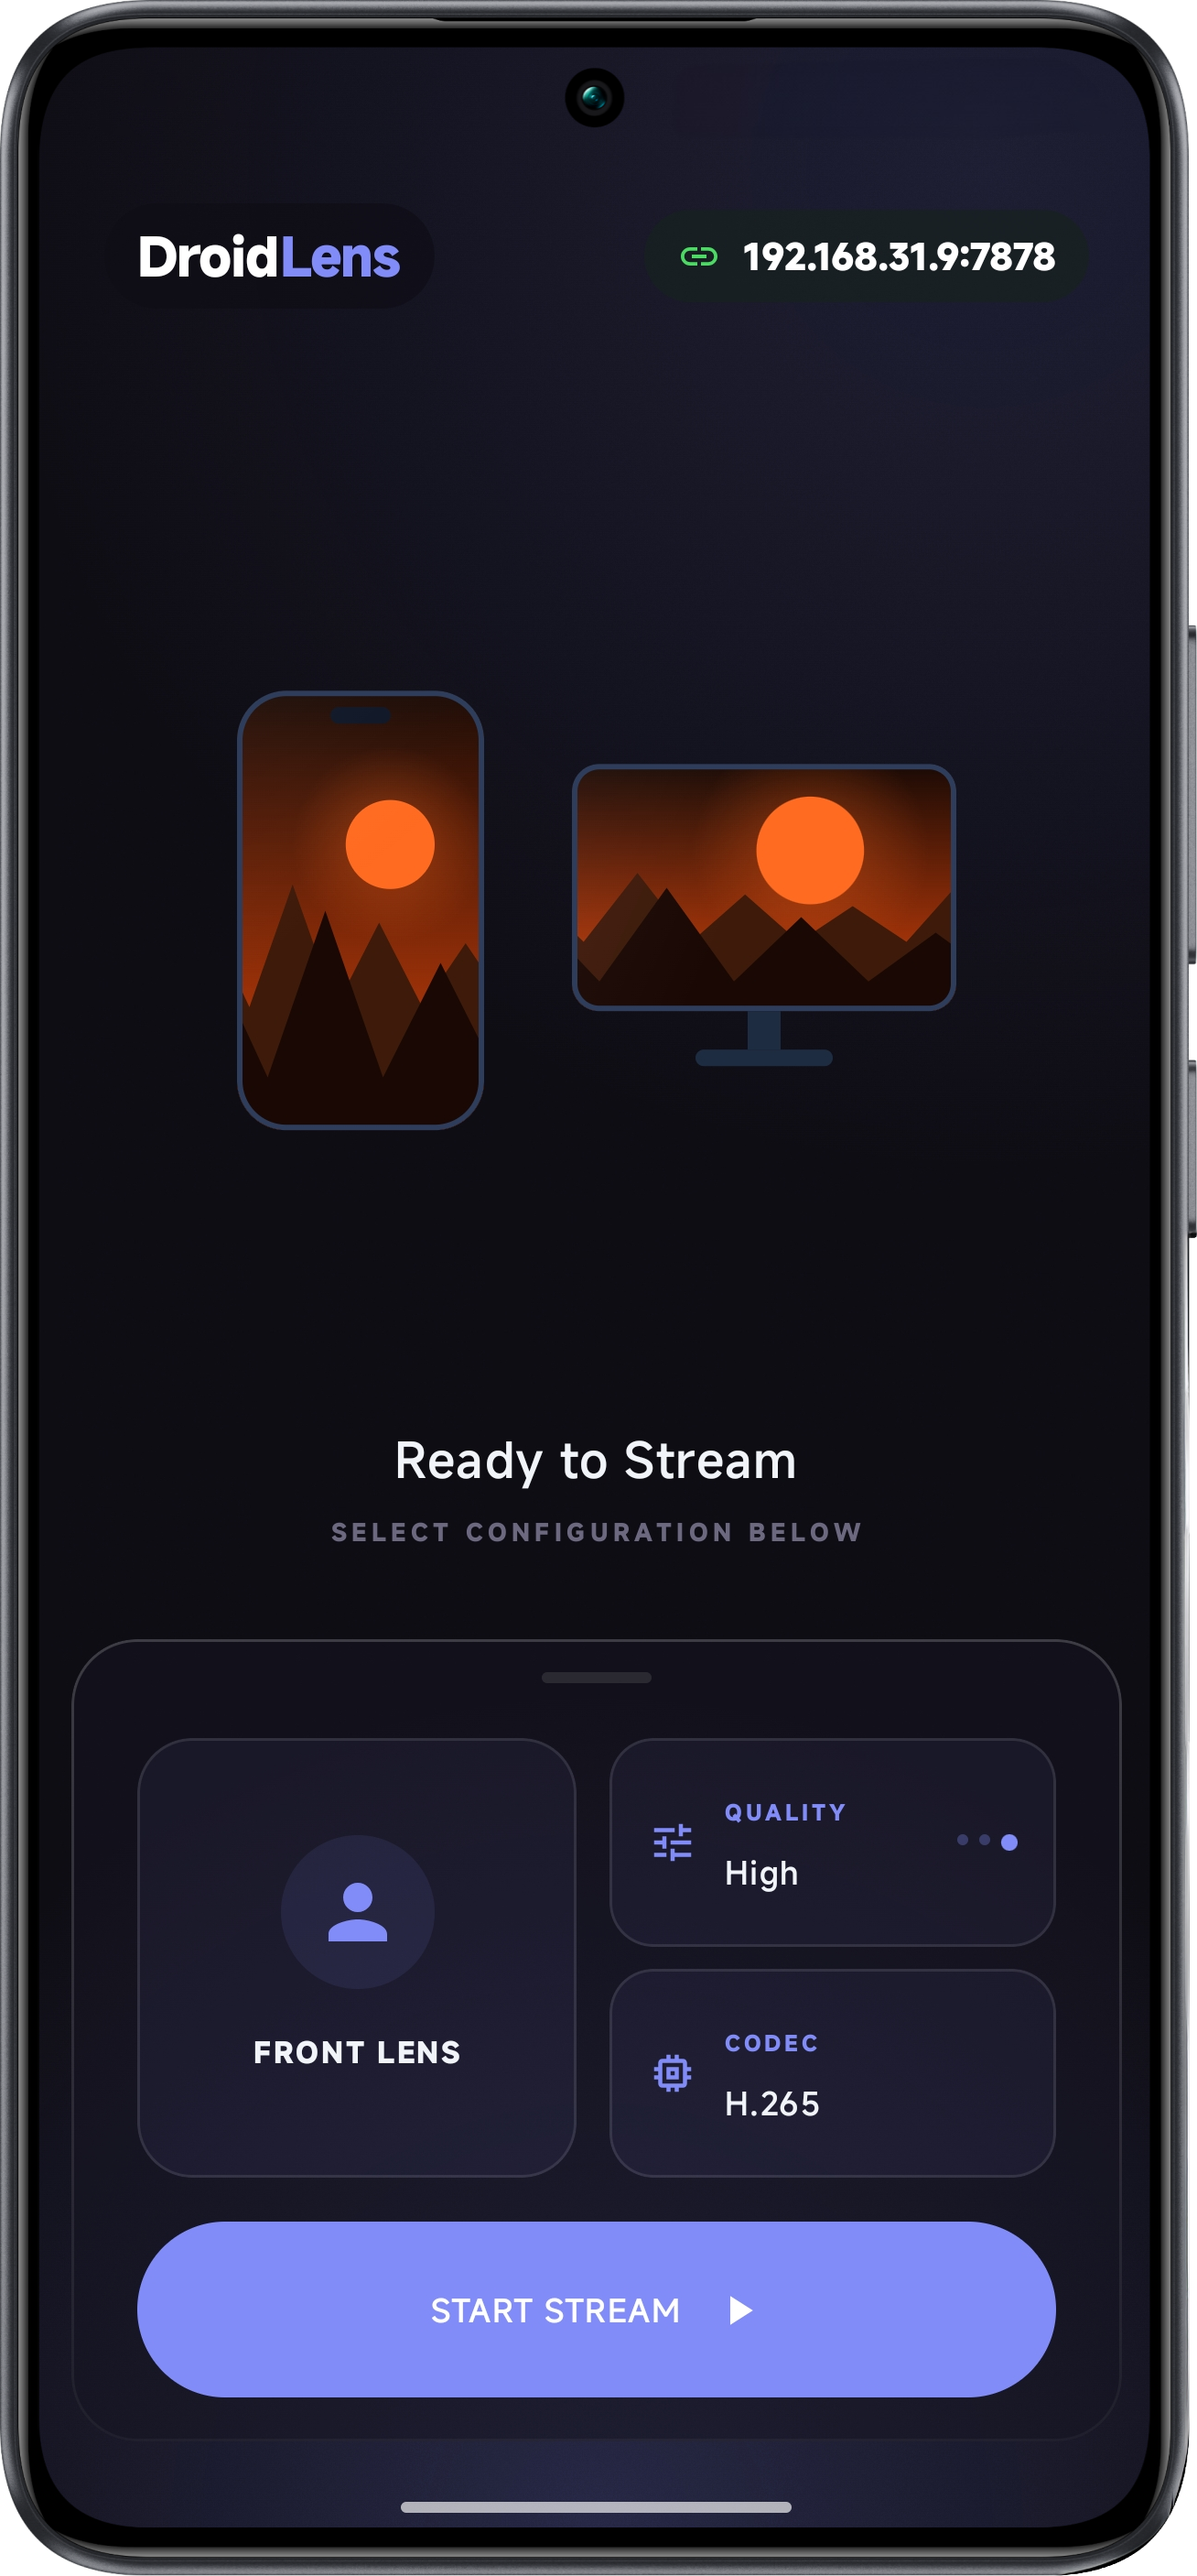
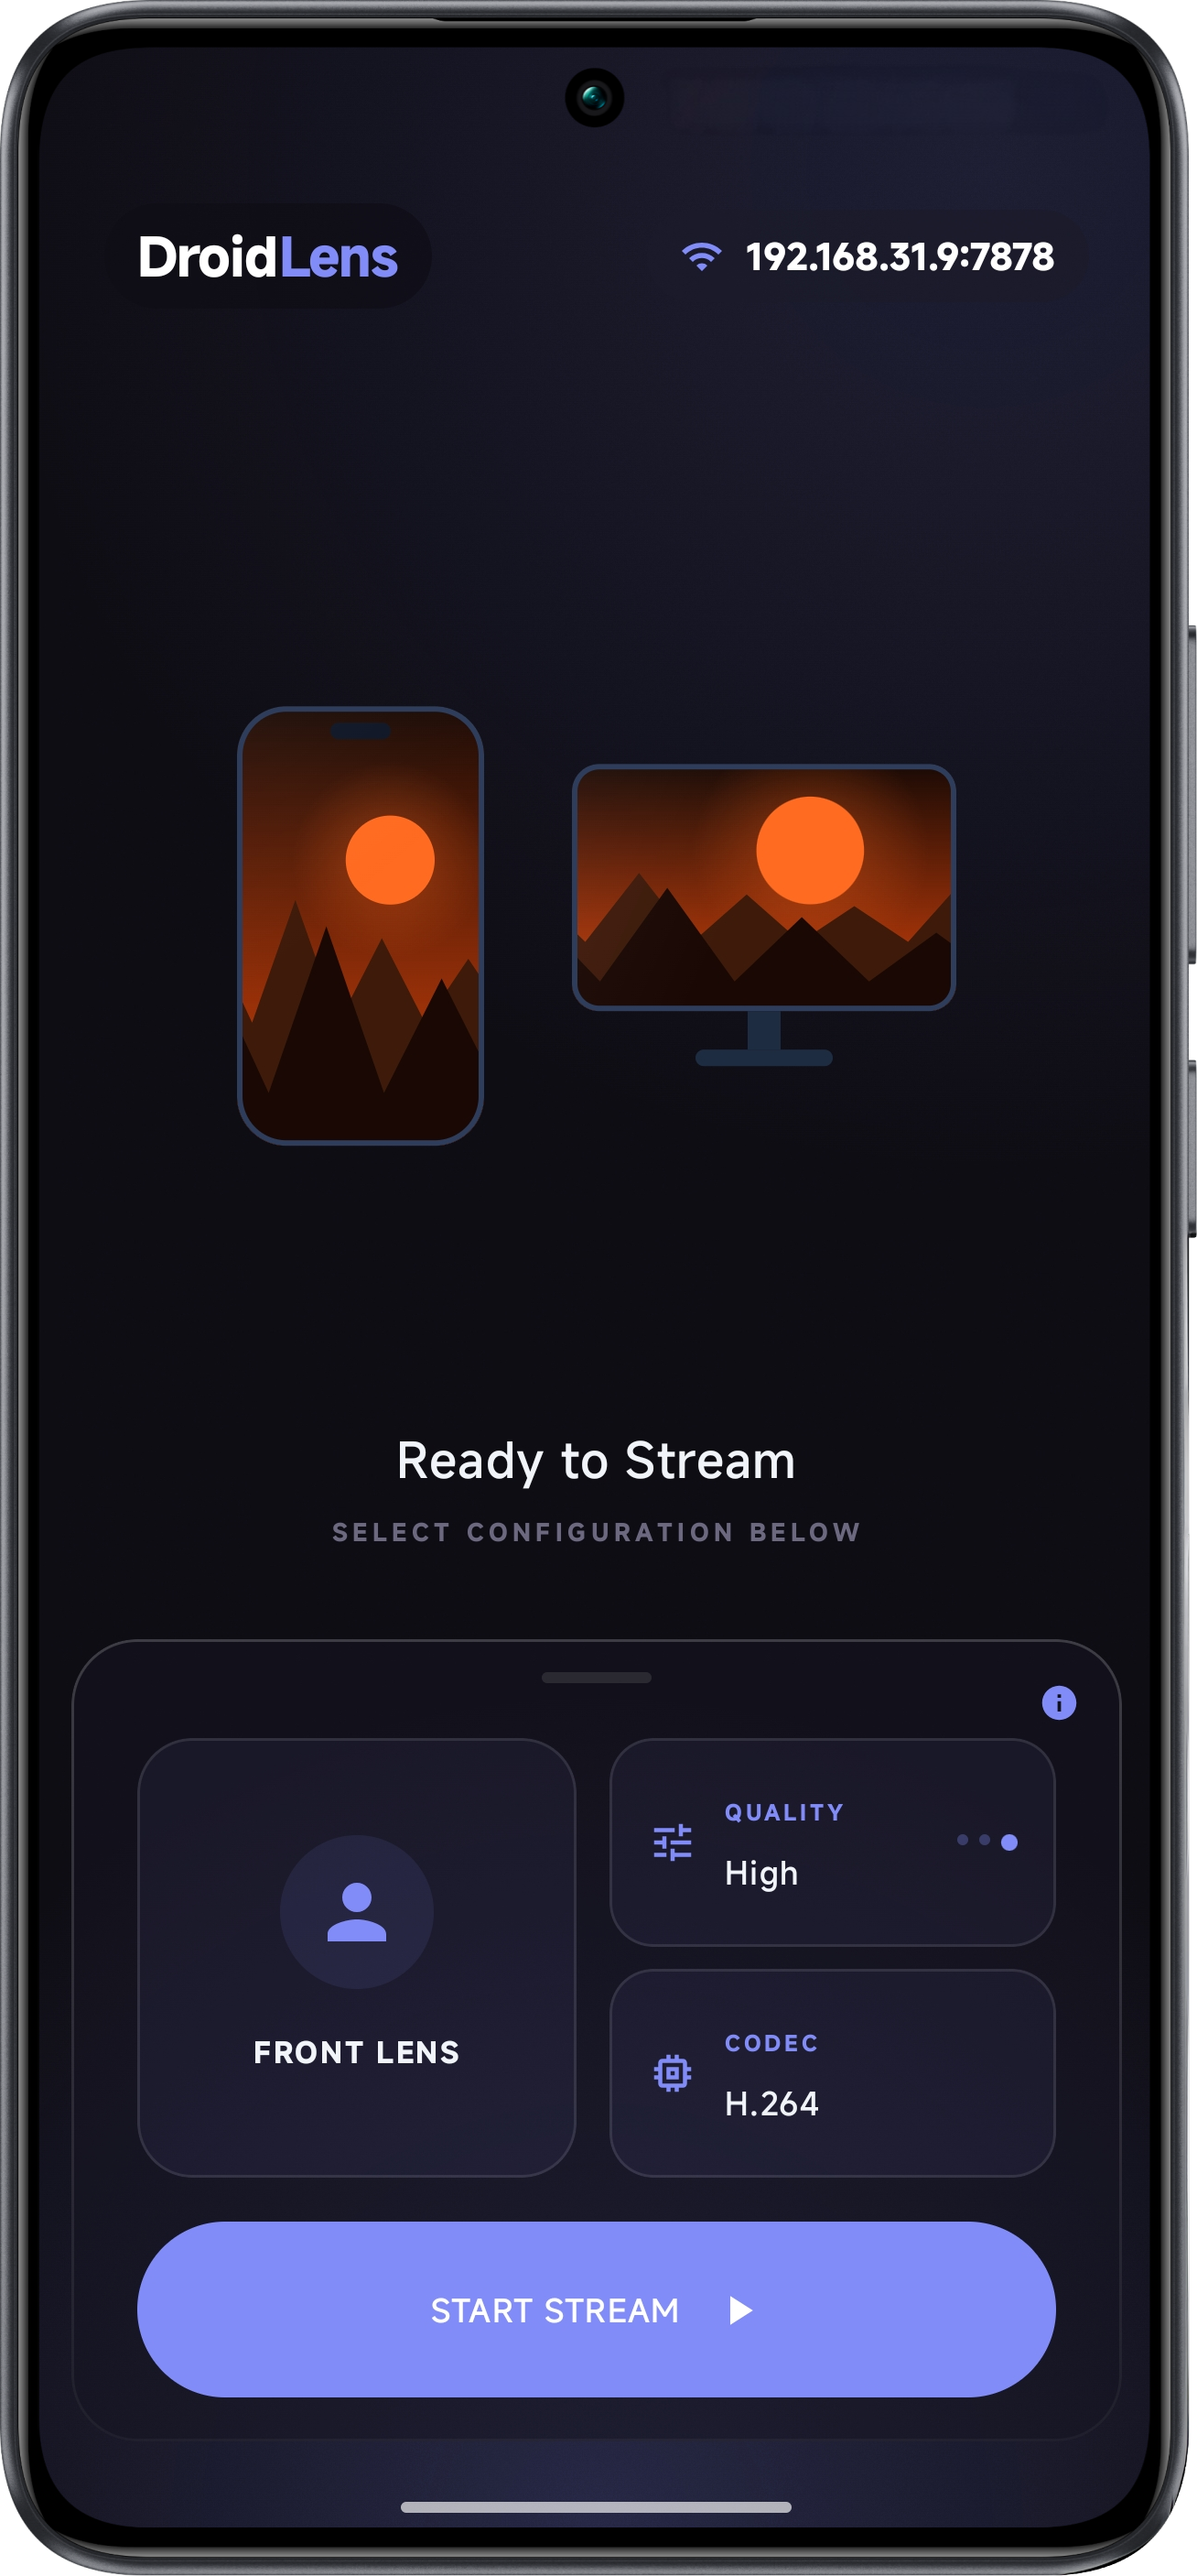
docs(android): refresh idle shots, add light theme variant

diff --git a/android/README.md b/android/README.md
@@ -12,13 +12,20 @@ The mobile camera streamer for DroidLens.
 
 <table>
   <tr>
-    <td align="center" width="35%">
-      <img src="../assets/screenshots/android-idle.png" alt="Ready to stream screen with lens, quality and codec selection" width="270" />
+    <td align="center" width="50%">
+      <img src="../assets/screenshots/android-idle.png" alt="Ready to stream screen in dark theme" width="270" />
       <br />
-      <em>Ready to stream — front lens, quality and codec (H.265) selection</em>
+      <em>Ready to stream — dark theme, front lens, quality and codec (H.264) selection</em>
     </td>
-    <td align="center" width="65%">
-      <img src="../assets/screenshots/android-preview-paused.jpg" alt="Live stream stats overlay with FPS, ISO, codec and quality" width="520" />
+    <td align="center" width="50%">
+      <img src="../assets/screenshots/android-idle-light.png" alt="Ready to stream screen in light theme" width="270" />
+      <br />
+      <em>Ready to stream — same setup in Fluent light variant</em>
+    </td>
+  </tr>
+  <tr>
+    <td align="center" colspan="2">
+      <img src="../assets/screenshots/android-preview-paused.jpg" alt="Live stream stats overlay with FPS, ISO, codec and quality" width="600" />
       <br />
       <em>Stream stats — live FPS, ISO/exposure, codec and quality overlay</em>
     </td>
